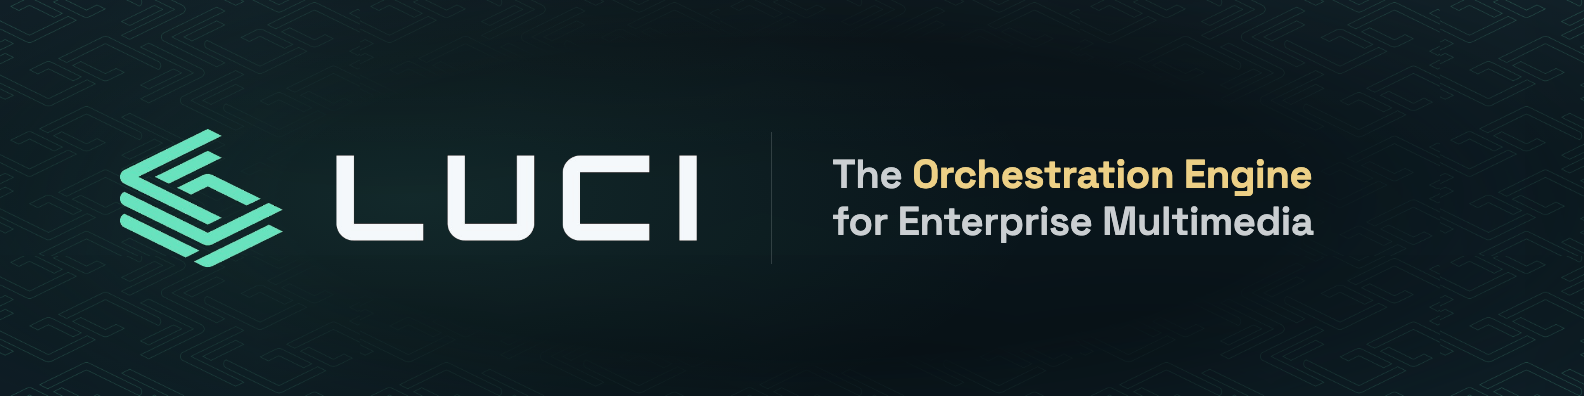
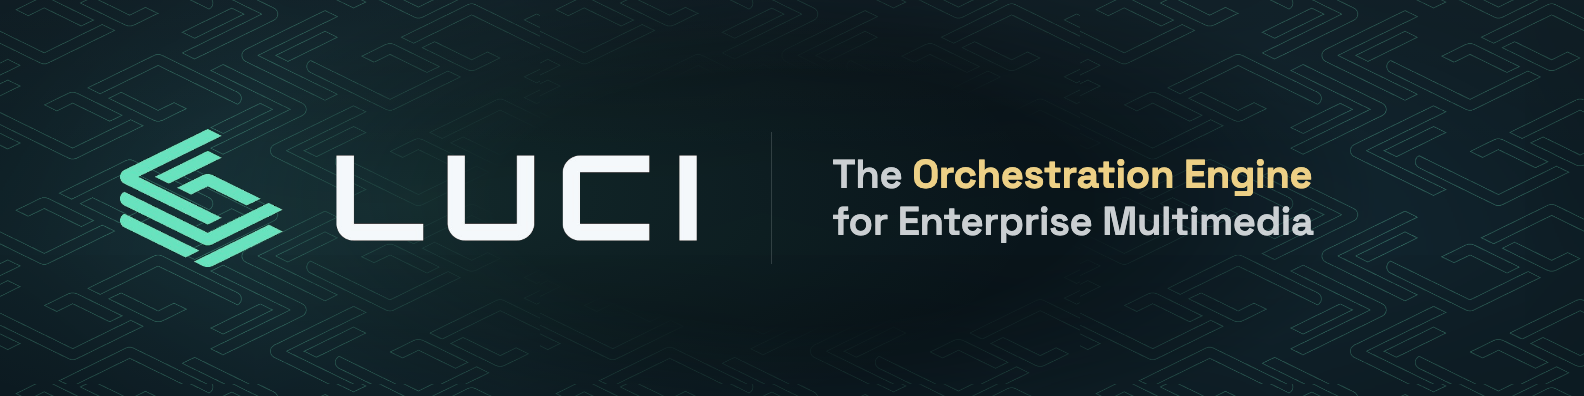
LinkedIn cover: tune circuit texture visibility (opacity 0.5, tighter edge mask)
At 0.33 the texture was too faint to read (edges barely lifted off the background,
per pixel sampling). Set opacity to 0.5 and shrink the radial mask ellipse so the
edges receive the full pattern while the center stays clean. Enlarged tile to
540px so the circuit traces survive preview downscaling. Re-rendered @1x/@2x.

diff --git a/LUCI Systems Design System/assets/social/linkedin-cover.html b/LUCI Systems Design System/assets/social/linkedin-cover.html
@@ -45,12 +45,12 @@
     inset: 0;
     background-image: url("../textures/texture-circuit-navy-mint.png");
     background-repeat: repeat;
-    background-size: 360px auto;
-    opacity: 0.6;
+    background-size: 540px auto;
+    opacity: 0.5;
     mix-blend-mode: screen;
     pointer-events: none;
-    -webkit-mask-image: radial-gradient(ellipse 62% 78% at 50% 50%, transparent 0%, transparent 52%, #000 100%);
-            mask-image: radial-gradient(ellipse 62% 78% at 50% 50%, transparent 0%, transparent 52%, #000 100%);
+    -webkit-mask-image: radial-gradient(ellipse 42% 72% at 50% 50%, transparent 0%, transparent 45%, #000 90%);
+            mask-image: radial-gradient(ellipse 42% 72% at 50% 50%, transparent 0%, transparent 45%, #000 90%);
   }
 
   /* soft mint glow behind the logo for depth (matches prior cover) */
